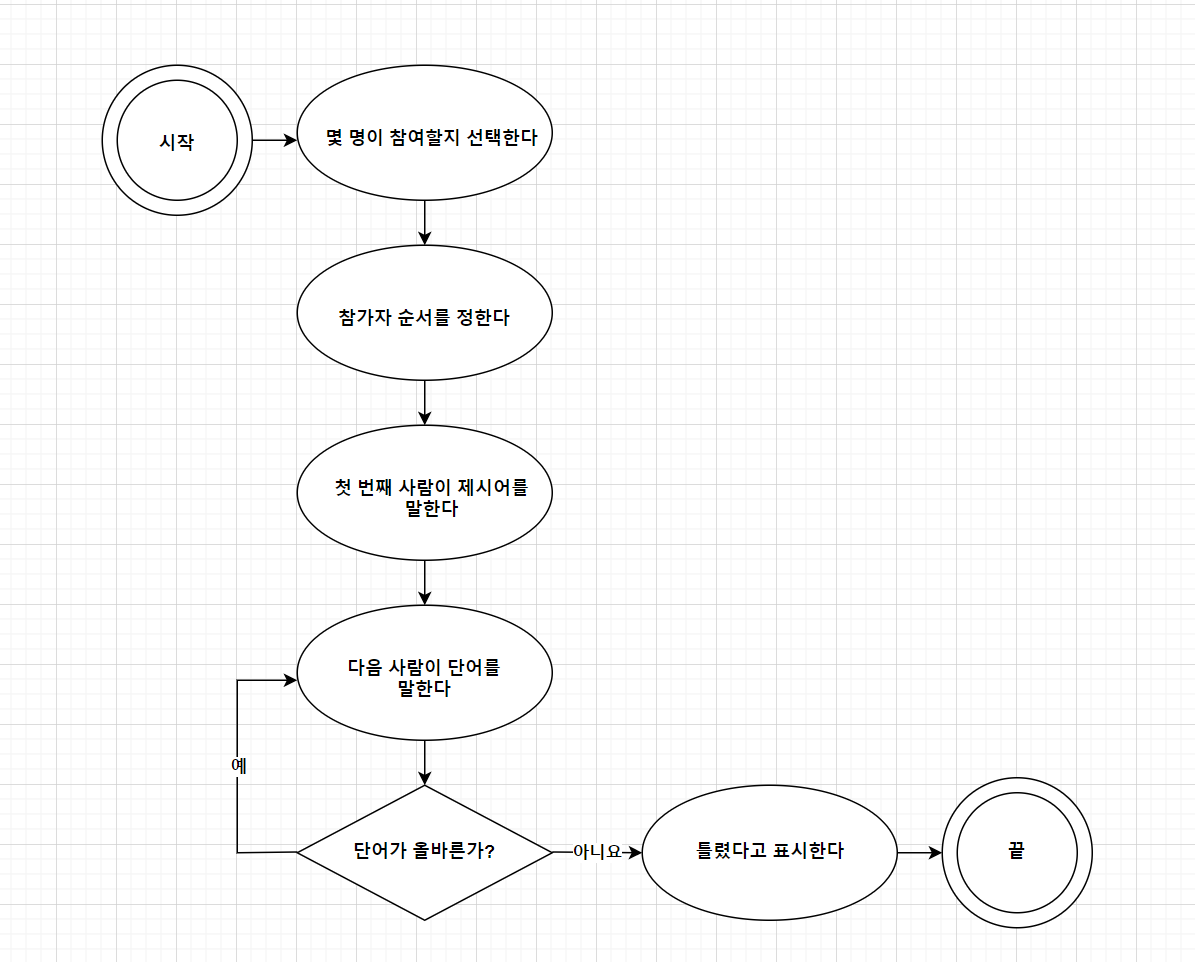
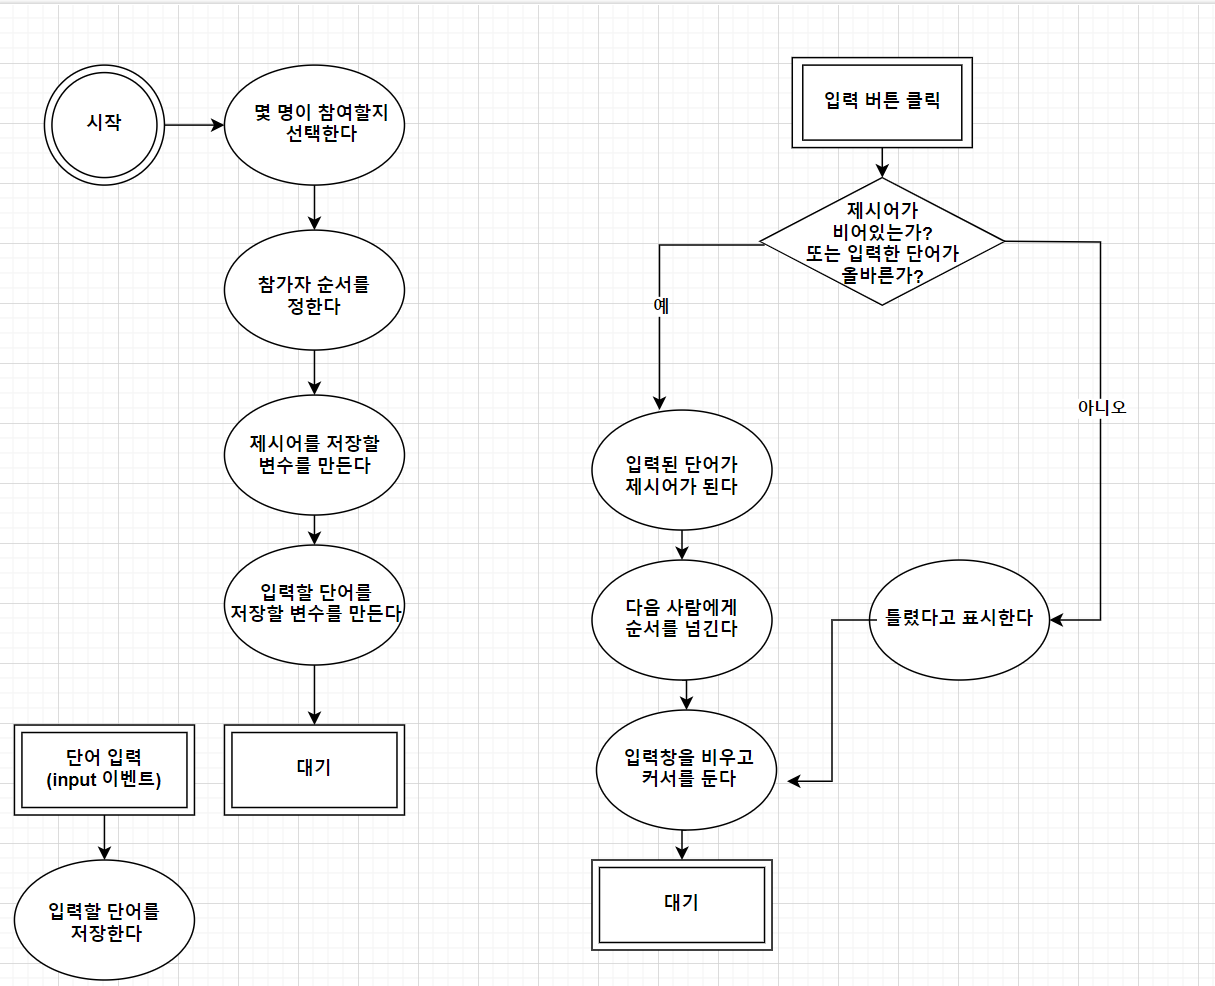
second commit

diff --git a/끝말잇기/word-relay.html b/끝말잇기/word-relay.html
@@ -1,20 +1,48 @@
 <!DOCTYPE html>
 <html lang="ko">
 <head>
-    <meta charset="UTF-8">
-    <meta http-equiv="X-UA-Compatible" content="IE=edge">
-    <meta name="viewport" content="width=device-width, initial-scale=1.0">
-    <title>끝말잇기</title>
+  <meta charset="UTF-8">
+  <meta http-equiv="X-UA-Compatible" content="IE=edge">
+  <meta name="viewport" content="width=device-width, initial-scale=1.0">
+  <title>끝말잇기</title>
 </head>
 <body>
-    <div><span id="order">1</span>번째 참가자</div>
-    <div>제시어: <span id="word"></span></div>
-    <input type="text">
-    <button>입력</button>
-    <script>
-        const number = parseInt(prompt('몇 명이 참가하나요?'), 10);
-        alert(number);
-        const yesOrNO = confirm('맞나요?');
-    </script>
+  <div><span id="order">1</span>번째 참가자</div>
+  <div>제시어 : <span id="word"></span></div>
+  <input type="text">
+  <button>입력</button>
+  <script>
+    const number = parseInt(prompt('몇 명이 참가하나요?'));
+    const $button = document.querySelector('button');
+    const $input = document.querySelector('input');
+    const $word = document.querySelector('#word');
+    const $order = document.querySelector('#order');
+    let word; // 제시어
+    let newWord; // 새로 입력한 단어
+
+    const onClickButton = () => {
+      if (!word || word[word.length - 1] === newWord[0] ) { // 제시어가 비어있는가? 혹은 입력한 단어가 올바른가?
+        // 비어 있다.
+        word = newWord; // 입력한 단어가 제시어가 된다.
+        $word.textContent = word;
+        const order = parseInt($order.textContent); //현재 순서
+        if (order === number) {
+          $order.textContent = 1;
+        } else {
+          $order.textContent = order + 1;
+        }
+      } else { // 올바르지 않은가
+          alert('올바르지 않은 단어입니다!');
+      }
+      $input.value = '';
+      $input.focus();
+    };
+    const onInput = (event) =>{
+      newWord = event.target.value;
+    };
+
+    $button.addEventListener('click', onClickButton);
+    $input.addEventListener('input', onInput);
+  </script>
 </body>
 </html>
